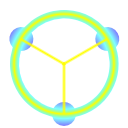
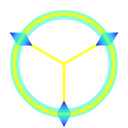
Improved summoning animation, added some framework for static effects

diff --git a/src/units.cpp b/src/units.cpp
@@ -1355,7 +1355,7 @@ int Bug::doAttack( Order o )
 
    if (target) {
       log("Bug pre-generate");
-      addProjectile( HOMING_ORB, team, x_real, y_real, orb_speed, target );
+      addProjectile( PR_HOMING_ORB, team, x_real, y_real, orb_speed, target );
    }
 
    log("Bug finishing attack");
@@ -1521,7 +1521,7 @@ sf::Texture* SummonMarker::getTexture()
 int SummonMarker::update( float dtf )
 {
    progress += dtf;
-   rotation += (dtf * 240);
+   rotation += (dtf * 450);
    return 0;
 }
 
@@ -1544,23 +1544,49 @@ int SummonMarker::draw()
    normalizeTo1x1( sp_summon_marker_inside );
    normalizeTo1x1( sp_summon_marker_outside );
 
-   sp_summon_marker_inside->setRotation( rotation );
-   sp_summon_marker_outside->setRotation( -rotation );
    sp_summon_marker_inside->setPosition( x_real, y_real );
    sp_summon_marker_outside->setPosition( x_real, y_real );
 
-   float out_scale, in_scale;
-   out_scale = (3.0 - progress) / 3.0;
-   in_scale = (1.0 + progress) / 3.0;
+   if (progress < 0.6) {
+      sp_summon_marker_inside->setRotation( rotation );
+      sp_summon_marker_outside->setRotation( -rotation );
 
-   sp_summon_marker_outside->scale( out_scale, out_scale );
-   sp_summon_marker_inside->scale( in_scale, in_scale );
+      float out_scale, in_scale;
+      out_scale = (5.0 - (progress/0.3)) / 5.0;
+      in_scale = (0.0 + (progress/0.2)) / 5.0;
 
-   SFML_GlobalRenderWindow::get()->draw( *sp_summon_marker_outside );
-   SFML_GlobalRenderWindow::get()->draw( *sp_summon_marker_inside );
+      sp_summon_marker_outside->scale( out_scale, out_scale );
+      sp_summon_marker_inside->scale( in_scale, in_scale );
 
-   sp_summon_marker_outside->scale( -out_scale, -out_scale );
-   sp_summon_marker_inside->scale( -in_scale, -in_scale );
+      SFML_GlobalRenderWindow::get()->draw( *sp_summon_marker_outside );
+      SFML_GlobalRenderWindow::get()->draw( *sp_summon_marker_inside );
+
+      sp_summon_marker_outside->scale( -out_scale, -out_scale );
+      sp_summon_marker_inside->scale( -in_scale, -in_scale );
+   }
+   else
+   {
+      int alpha = (int) ( ((progress - 0.6)/0.4) * 256);
+      Color c_yellow( 255, 255, 0, alpha );
+      CircleShape cir( 0.25 );
+      cir.setFillColor( c_yellow );
+      cir.setOrigin( 0.25, 0.25 );
+      cir.setPosition( x_real, y_real );
+      SFML_GlobalRenderWindow::get()->draw( cir );
+
+      sp_summon_marker_inside->setRotation( 270 );
+      sp_summon_marker_outside->setRotation( -270 );
+
+      sp_summon_marker_outside->scale( 0.6, 0.6 );
+      sp_summon_marker_inside->scale( 0.6, 0.6 );
+
+      SFML_GlobalRenderWindow::get()->draw( *sp_summon_marker_outside );
+      SFML_GlobalRenderWindow::get()->draw( *sp_summon_marker_inside );
+
+      sp_summon_marker_outside->scale( -0.6, -0.6 );
+      sp_summon_marker_inside->scale( -0.6, -0.6 );
+   }
+
 
    return 0;
 }

diff --git a/src/projectile.cpp b/src/projectile.cpp
@@ -14,6 +14,11 @@
 namespace sum
 {
 
+Effect::~Effect()
+{
+
+}
+
 int Projectile::update( float dtf )
 {
    // Homing recalibrate TODO
@@ -57,7 +62,7 @@ int Projectile::draw( )
    return 0;
 }
 
-Projectile::Projectile( Projectile_Type t, int tm, float x, float y, float speed, Unit* tgt )
+Projectile::Projectile( Effect_Type t, int tm, float x, float y, float speed, Unit* tgt )
 {
    type = t;
    team = tm;
@@ -75,29 +80,79 @@ Projectile::Projectile( Projectile_Type t, int tm, float x, float y, float speed
    vel.y *= norm;
 
    switch (t) {
-      case ARROW:
+      case PR_ARROW:
          radius = 0.05;
          damage = 20.0;
          break;
-      case HOMING_ORB:
+      case PR_HOMING_ORB:
          radius = 0.1;
          damage = 30.0;
          break;
    }
 }
 
-int initProjectiles()
+Projectile::~Projectile()
 {
-   // Setup Sprites
 
-   log("initProjectiles complete");
+}
+
+int StaticEffect::update( float dtf )
+{
+   duration -= dtf;
+   if (duration <= 0)
+      return 1;
+
    return 0;
 }
 
-Projectile *genProjectile( Projectile_Type t, int tm, float x, float y, float speed, Unit* target )
+Sprite *sp_summon_cloud = NULL;
+
+int StaticEffect::draw()
+{
+   if (NULL == sp_summon_cloud) {
+      Texture *tex =SFML_TextureManager::getSingleton().getTexture( "FogCloudTransparent.png" ); 
+      sp_summon_cloud = new Sprite( *(tex));
+      Vector2u dim = tex->getSize();
+      sp_summon_cloud->setOrigin( dim.x / 2.0, dim.y / 2.0 );
+      normalizeTo1x1( sp_summon_cloud );
+   }
+
+   Sprite *sp = NULL;
+   if (type == SE_SUMMON_CLOUD)
+      sp = sp_summon_cloud;
+
+   if (NULL != sp) {
+      sp->setPosition( pos );
+      SFML_GlobalRenderWindow::get()->draw( *sp );
+   }
+
+   return 0;
+}
+
+StaticEffect::StaticEffect( Effect_Type t, float dur, float x, float y )
+{
+   type = t;
+   duration = dur;
+   pos = Vector2f( x, y );
+}
+
+StaticEffect::~StaticEffect()
+{
+
+}
+
+int initEffects()
+{
+   // Setup Sprites
+
+   log("initEffects complete");
+   return 0;
+}
+
+Projectile *genProjectile( Effect_Type t, int tm, float x, float y, float speed, Unit* target )
 {
    Projectile *result = NULL;
-   if (target && t < NUM_PROJECTILES) {
+   if (target && t <= PR_HOMING_ORB) {
       log("Generating projectile");
       result = new Projectile( t, tm, x, y, speed, target );
    }

diff --git a/src/level.cpp b/src/level.cpp
@@ -76,7 +76,7 @@ Terrain* terrain_grid;
 Unit** unit_grid;
 // Lists
 list<Unit*> unit_list;
-list<Projectile*> projectile_list;
+list<Effect*> projectile_list;
 
 // Vision
 Vision* vision_grid;
@@ -283,19 +283,19 @@ int moveUnit( Unit *u, int new_x, int new_y )
    return -1;
 }
 
-int removeProjectile( Projectile *p )
+int removeProjectile( Effect *p )
 {
    if (p) {
-      list<Projectile*>::iterator it= find( projectile_list.begin(), projectile_list.end(), p );
+      list<Effect*>::iterator it= find( projectile_list.begin(), projectile_list.end(), p );
       projectile_list.erase( it );
       return 0;
    }
    return -1;
 }
 
-int addProjectile( Projectile_Type t, int team, float x, float y, float speed, Unit* target )
+int addProjectile( Effect_Type t, int team, float x, float y, float speed, Unit* target )
 {
-   Projectile *p = genProjectile( t, team, x, y, speed, target );
+   Effect *p = genProjectile( t, team, x, y, speed, target );
 
    if (p) {
       projectile_list.push_back(p);
@@ -939,7 +939,11 @@ int completeSummon( Order o )
    if (o.action == SUMMON_BUG)
       u = new Bug( x, y, SOUTH );
 
-   addUnit( u );
+   if (NULL != u)
+   {
+      addUnit( u );
+      projectile_list.push_back( new StaticEffect( SE_SUMMON_CLOUD, 0.5, x + 0.5, y + 0.5 ) );
+   }
 
    return 0;
 }
@@ -1705,9 +1709,9 @@ int updateAll( int dt )
       }
       ++it;
    }
-   for (list<Projectile*>::iterator it=projectile_list.begin(); it != projectile_list.end(); ++it)
+   for (list<Effect*>::iterator it=projectile_list.begin(); it != projectile_list.end(); ++it)
    {
-      Projectile* proj = (*it);
+      Effect* proj = (*it);
       if (proj) {
          result = proj->update( dtf );
          if (result == 1) {
@@ -3646,9 +3650,9 @@ void drawUnits()
 
 void drawProjectiles()
 {
-   for (list<Projectile*>::iterator it=projectile_list.begin(); it != projectile_list.end(); ++it)
+   for (list<Effect*>::iterator it=projectile_list.begin(); it != projectile_list.end(); ++it)
    {
-      Projectile* proj = (*it);
+      Effect* proj = (*it);
       if (proj) {
          proj->draw();
       }

diff --git a/src/projectile.h b/src/projectile.h
@@ -5,35 +5,64 @@
 
 namespace sum
 {
-   class Unit;
 
-   enum Projectile_Type
-   {
-      ARROW,
-      HOMING_ORB,
-      NUM_PROJECTILES
-   };
+class Unit;
 
-   struct Projectile
-   {
-      Projectile_Type type;
-      float radius, damage;
-      sf::Vector2f pos, vel;
-      int team;
-      Unit *target;
+enum Effect_Type
+{
+   // Projectiles
+   PR_ARROW,
+   PR_HOMING_ORB,
+   // Sparkly Effects
+   SE_SUMMON_CLOUD,
 
-      int update( float dtf );
-      int draw();
+   NUM_EFFECTS
+};
 
-      // Speed means units travelled per turn
-      Projectile( Projectile_Type t, int team, float x, float y, float speed, Unit* target );
-   };
+struct Effect
+{
+   Effect_Type type;
+
+   virtual int update( float dtf ) = 0;
+   virtual int draw() = 0;
+
+   virtual ~Effect();
+};
+
+struct Projectile : public Effect
+{
+   float radius, damage;
+   sf::Vector2f pos, vel;
+   int team;
+   Unit *target;
+
+   virtual int update( float dtf );
+   virtual int draw();
 
    // Speed means units travelled per turn
-   Projectile *genProjectile( Projectile_Type t, int team, float x, float y, float speed, Unit* target );
+   Projectile( Effect_Type t, int team, float x, float y, float speed, Unit* target );
 
+   virtual ~Projectile();
+};
 
-   int initProjectiles();
+struct StaticEffect : public Effect
+{
+   sf::Vector2f pos;
+   float duration;
+
+   virtual int update( float dtf );
+   virtual int draw();
+
+   StaticEffect( Effect_Type t, float duration, float x, float y );
+
+   virtual ~StaticEffect();
+};
+
+// Speed means units travelled per turn
+Projectile *genProjectile( Effect_Type t, int team, float x, float y, float speed, Unit* target );
+
+int initEffects();
+
 };
 
 #endif

diff --git a/src/level.h b/src/level.h
@@ -27,7 +27,7 @@ namespace sum
    bool canMoveUnit( int x, int y, int from_x, int from_y, Unit* u );
 
    int moveUnit( Unit *u, int new_x, int new_y );
-   int addProjectile( Projectile_Type t, int team, float x, float y, float speed, Unit* target );
+   int addProjectile( Effect_Type t, int team, float x, float y, float speed, Unit* target );
 
    int broadcastOrder( Order o );
    int startPlayerCommand( Order o );

diff --git a/src/app.cpp b/src/app.cpp
@@ -567,7 +567,7 @@ int progressiveInit()
             progress = 3;
          break;
       case 3:
-         if (initProjectiles() == 0)
+         if (initEffects() == 0)
             progress = 4;
          break;
       case 4:
